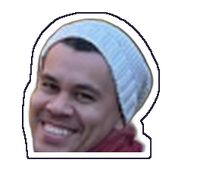
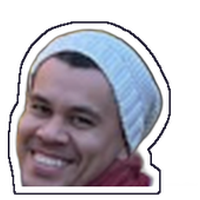
Angeles sticker head, all heads same size and bigger

diff --git a/index.html b/index.html
@@ -202,14 +202,14 @@ const $=id=>document.getElementById(id);
 const esc=s=>String(s??"").replace(/[&<>"']/g,c=>({"&":"&amp;","<":"&lt;",">":"&gt;",'"':"&quot;","'":"&#39;"}[c]));
 
 function kartSVG(color,initial,photo,uid){
-  return `<svg viewBox="0 -42 120 106" aria-hidden="true">
+  return `<svg viewBox="0 -72 120 136" aria-hidden="true">
   <path d="M6 44 L16 30 L48 27 L58 16 L80 16 L90 28 L112 32 L116 44 Q60 50 6 44 Z" fill="${color}"/>
   <path d="M16 30 L48 27 L54 38 L12 40 Z" fill="rgba(0,0,0,.2)"/>
   <path d="M90 28 L112 32 L114 38 L92 36 Z" fill="rgba(255,255,255,.35)"/>
   <rect x="98" y="20" width="18" height="6" rx="2" fill="#222"/><rect x="104" y="24" width="3" height="8" fill="#222"/>
   <rect x="0" y="22" width="14" height="5" rx="2" fill="#222"/>
-  ${photo?`<g class="head"><image href="${esc(photo)}" x="44" y="-34" width="44" height="55" preserveAspectRatio="xMidYMax meet"/>
-  <g class="hat"><path d="M48 -24 Q56 -40 76 -36 Q90 -33 95 -18 L85 -22 Q74 -29 48 -24 Z" fill="#d7263d" stroke="#fff" stroke-width="1.5"/><rect x="45" y="-28" width="42" height="8" rx="4" fill="#fff"/><circle cx="95" cy="-18" r="5" fill="#fff"/></g></g>`:`<circle cx="68" cy="11" r="11" fill="${color}" stroke="#fff" stroke-width="2.5"/>
+  ${photo?`<g class="head"><image href="${esc(photo)}" x="26" y="-62" width="80" height="80" preserveAspectRatio="xMidYMax meet"/>
+  <g class="hat" transform="translate(-4,-30)"><path d="M48 -24 Q56 -40 76 -36 Q90 -33 95 -18 L85 -22 Q74 -29 48 -24 Z" fill="#d7263d" stroke="#fff" stroke-width="1.5"/><rect x="45" y="-28" width="42" height="8" rx="4" fill="#fff"/><circle cx="95" cy="-18" r="5" fill="#fff"/></g></g>`:`<circle cx="68" cy="11" r="11" fill="${color}" stroke="#fff" stroke-width="2.5"/>
   <path d="M69 5 h9 a5 5 0 0 1 0 10 h-9 z" fill="#1d1a2e"/>
   <text x="64" y="15" font-family="Bungee,Arial Black,sans-serif" font-size="11" fill="#fff" text-anchor="middle">${esc(initial)}</text>
   <g class="hat"><path d="M57 2 Q62 -10 74 -8 Q82 -6 85 3 L78 0 Q70 -4 57 2 Z" fill="#d7263d"/><rect x="55" y="0" width="26" height="5" rx="2.5" fill="#fff"/><circle cx="85" cy="3" r="3.5" fill="#fff"/></g>`}
@@ -236,7 +236,7 @@ function renderRace(){
   const track=$("track"); const {tot}=counts(); const order=ranking();
   if(!S.players.length){track.style.height="auto";track.innerHTML=`<div class="race-empty">Todavía no hay jugadores.</div>`;return;}
   track.querySelectorAll(".race-empty").forEach(e=>e.remove());
-  const narrow=track.clientWidth<560, laneH=narrow?96:108, kartW=narrow?66:86;
+  const narrow=track.clientWidth<560, laneH=narrow?112:132, kartW=narrow?66:86;
   track.style.setProperty("--laneH",laneH+"px"); track.style.setProperty("--kartW",kartW+"px");
   const lead=Math.max(0,...order.map(p=>tot[p.id]));
   const max=Math.max(30,Math.ceil((lead+8)/10)*10);
